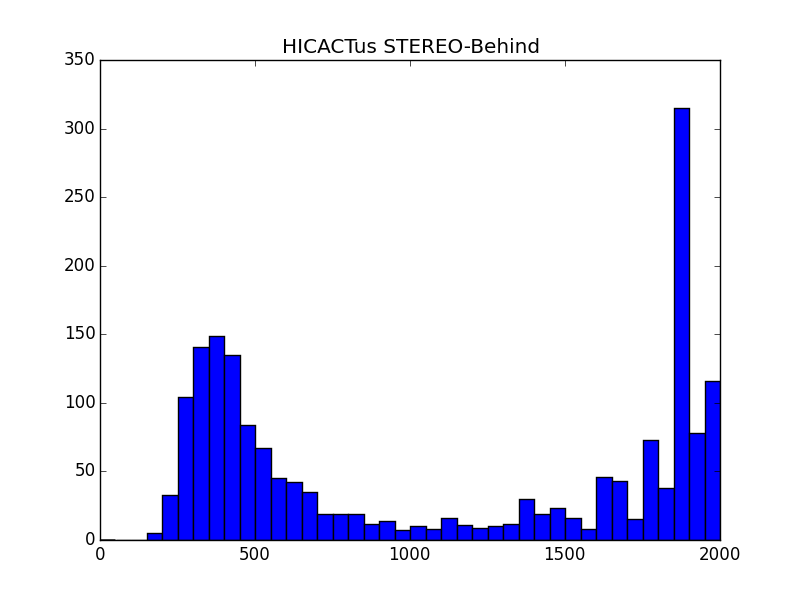
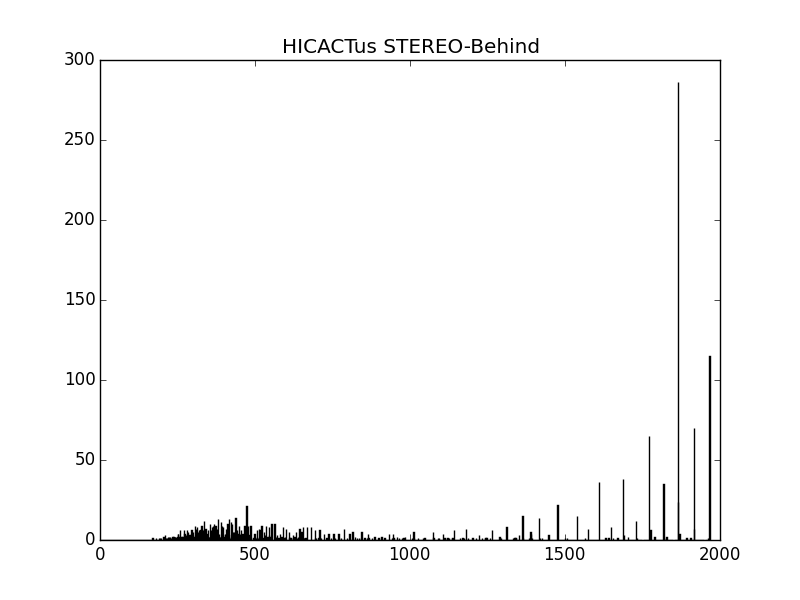
renamed code to catalog_plots.py

diff --git a/catalog_plots.py b/catalog_plots.py
@@ -28,49 +28,59 @@ df_cdaw.describe()
 hicact_a_speeds = df_hicact_a[['v']]
 hicact_b_speeds = df_hicact_b[['v']]
 
-binwidth = 50
 # Histogram of STEREO-Ahead speeds
-v_a = np.array(df_hicact_a[['v']].astype('float'))
-plt.hist(v_a,bins=np.arange(0, max(v_a) + binwidth, binwidth))
-plt.title("HICACTus STEREO-Ahead")
-save(path=os.path.join(config.hicact_path,"hicact_a_speeds_hist"),verbose=True)
+def hicact_a_speeds():
+	binwidth = 50
+	v_a = np.array(df_hicact_a[['v']].astype('float'))
+	plt.hist(v_a,bins=np.arange(0, max(v_a) + binwidth, binwidth))
+	plt.title("HICACTus STEREO-Ahead")
+	save(path=os.path.join(config.hicact_path,"hicact_a_speeds_hist"),verbose=True)
+
+hicact_a_speeds()
 
 # Histogram of STEREO-Behind speeds
-v_b = np.array(df_hicact_b[['v']].astype('float'))
-plt.hist(v_b,bins=np.arange(0,max(v_b)+binwidth,binwidth))
-plt.title("HICACTus STEREO-Behind")
-save(path=os.path.join(config.hicact_path,"hicact_b_speeds_hist"),verbose=True)
+def hicact_b_speeds():
+	binwidth=1
+	v_b = np.array(df_hicact_b[['v']].astype('float'))
+	plt.hist(v_b,bins=np.arange(0,max(v_b)+binwidth,binwidth))
+	plt.title("HICACTus STEREO-Behind")
+	save(path=os.path.join(config.hicact_path,"hicact_b_speeds_hist"),verbose=True)
+
+hicact_b_speeds()
 
 # Histogram of STEREO-Ahead & Behind speeds
-plt.hist(v_a,bins=np.arange(0,max(v_a)+binwidth,binwidth),histtype='stepfilled',\
-	normed=False,color='r',label='Ahead')
-plt.hist(v_b,bins=np.arange(0,max(v_b)+binwidth,binwidth),histtype='stepfilled',\
-	normed=False,color='b',alpha=0.5,label='Behind')
-plt.title("HICACTus CME Speeds")
-plt.xlabel("Speed [kms-1]")
-plt.ylabel("Count")
-plt.legend(prop={'size':8})
-save(path=os.path.join(config.hicact_path,"hicact_speeds_hist"),verbose=True)
+def hicact_speeds():
+	plt.hist(v_a,bins=np.arange(0,max(v_a)+binwidth,binwidth),histtype='stepfilled',\
+		normed=False,color='r',label='Ahead')
+	plt.hist(v_b,bins=np.arange(0,max(v_b)+binwidth,binwidth),histtype='stepfilled',\
+		normed=False,color='b',alpha=0.5,label='Behind')
+	plt.title("HICACTus CME Speeds")
+	plt.xlabel("Speed [kms-1]")
+	plt.ylabel("Count")
+	plt.legend(prop={'size':8})
+	save(path=os.path.join(config.hicact_path,"hicact_speeds_hist"),verbose=True)
 
 # Scatterplot of STEREO-Ahead speeds against position angles
-plt.scatter(df_hicact_a.v,df_hicact_a.pa,s=80,facecolor='red',edgecolor='none',alpha=0.25)
-#plt.axhline(y=df_hicact_b.pa.min())
-#plt.axhline(y=df_hicact_b.pa.max())
-plt.xlim([0,2100])
-plt.title("HICACTus STEREO-Ahead")
-plt.xlabel("Speed [kms-1]")
-plt.ylabel("Position Angle [deg]")
-save(path=os.path.join(config.hicact_path,"hicact_a_speeds_pa"),verbose=True)
+def hicact_a_speeds_pa():
+	plt.scatter(df_hicact_a.v,df_hicact_a.pa,s=80,facecolor='red',edgecolor='none',alpha=0.25)
+	#plt.axhline(y=df_hicact_b.pa.min())
+	#plt.axhline(y=df_hicact_b.pa.max())
+	plt.xlim([0,2100])
+	plt.title("HICACTus STEREO-Ahead")
+	plt.xlabel("Speed [kms-1]")
+	plt.ylabel("Position Angle [deg]")
+	save(path=os.path.join(config.hicact_path,"hicact_a_speeds_pa"),verbose=True)
 
 # Scatterplot of STEREO-Behind speeds against position angles
-plt.scatter(df_hicact_b.v,df_hicact_b.pa,s=80,edgecolor='none',alpha=0.25)
-#plt.axhline(y=df_hicact_b.pa.min())
-#plt.axhline(y=df_hicact_b.pa.max())
-plt.xlim([0,2100])
-plt.title("HICACTus STEREO-Behind")
-plt.xlabel("Speed [kms-1]")
-plt.ylabel("Position Angle [deg]")
-save(path=os.path.join(config.hicact_path,"hicact_b_speeds_pa"),verbose=True)
+def hicact_b_speeds_pa():
+	plt.scatter(df_hicact_b.v,df_hicact_b.pa,s=80,edgecolor='none',alpha=0.25)
+	#plt.axhline(y=df_hicact_b.pa.min())
+	#plt.axhline(y=df_hicact_b.pa.max())
+	plt.xlim([0,2100])
+	plt.title("HICACTus STEREO-Behind")
+	plt.xlabel("Speed [kms-1]")
+	plt.ylabel("Position Angle [deg]")
+	save(path=os.path.join(config.hicact_path,"hicact_b_speeds_pa"),verbose=True)
 
 # Scatterplot of STEREO-Ahead & Behind speeds against position angles
 def hicact_speeds_pa():
@@ -111,4 +121,11 @@ def hicact_speeds_datetime():
 
 hicact_speeds_datetime()
 
+def fourier_speeds():
+	from scipy.fftpack import fft
+	yf = fft(df_hicact_b.v)
+	plt.scatter(df_hicact_b.v,yf)
+	#plt.show()
+
+fourier_speeds()
 
